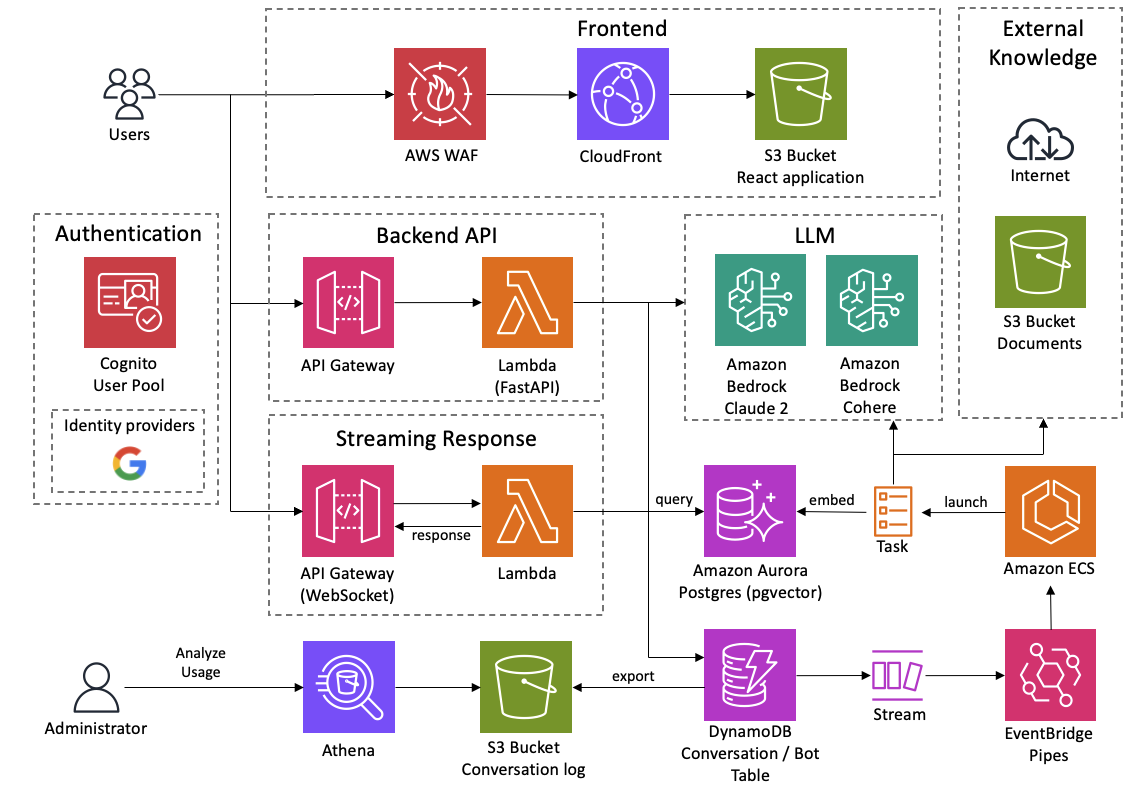
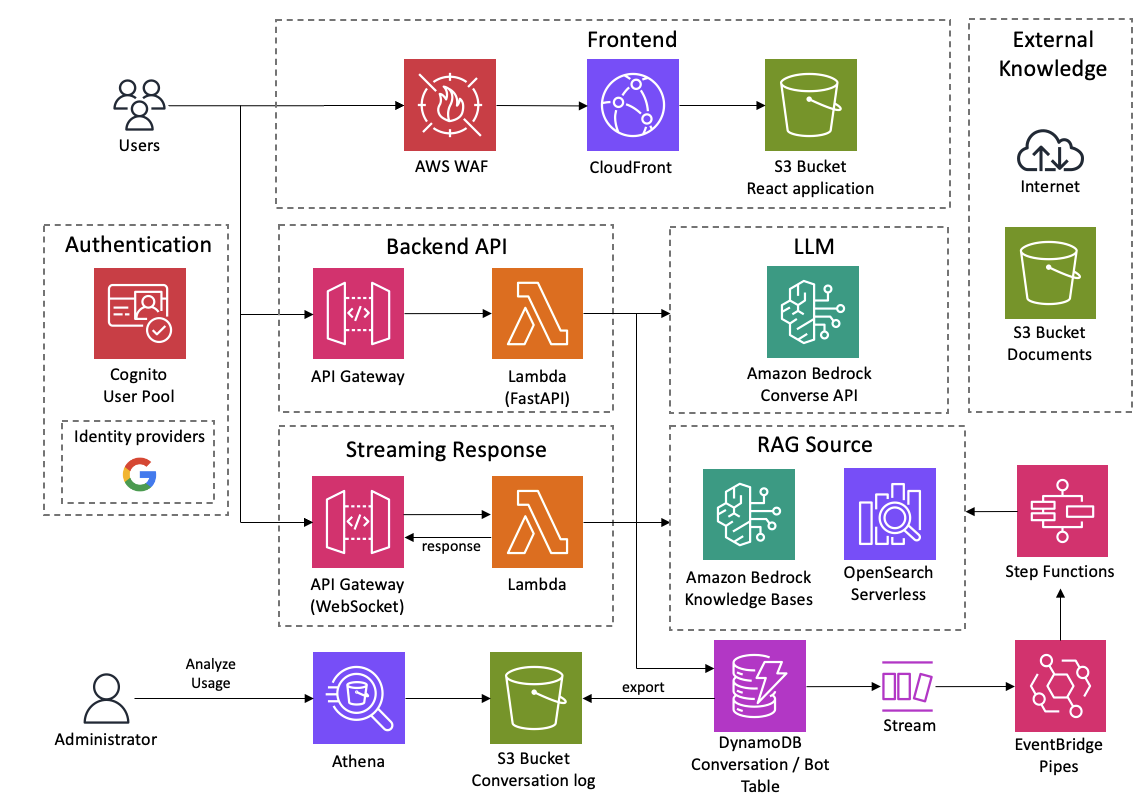
deploy: d1d43c014895be3e34d5a407c308c50576516e8b

diff --git a/migration/V1_TO_V2.md b/migration/V1_TO_V2.md
@@ -7,9 +7,6 @@
 - **For users who wish to continue using pgvector**: Upgrading to v2 is not recommended if you plan to continue using pgvector. Upgrading to v2 will remove all resources related to pgvector, and future support will no longer be available. Continue using v1 in this case.
 - Note that **upgrading to v2 will result in the deletion of all Aurora-related resources.** Future updates will focus exclusively on v2, with v1 being deprecated.
 
-> [!Important]
-> v2 will be released soon.
-
 ## Introduction
 
 ### What will happen
@@ -76,12 +73,20 @@ The steps differ depending on whether you are using v1.2 or earlier, or v1.3.
 
 **Note that some features are not available on Knowledge Bases, such as web crawling and YouTube transcript support (Planning to support web crawler ([issue](https://github.com/aws-samples/bedrock-claude-chat/issues/557))).** Also, keep in mind that using Knowledge Bases will incur charges for both Aurora and Knowledge Bases during the transition.
 
-4. **Upgrade to v2**: After the release of v2, fetch the tagged source and deploy as follows (this will be possible once released):
+4. **Remove published APIs**: All previously published APIs will need to be republished before deploying v2 due to VPC deletion. To do this, you will need to delete the existing APIs first. Using the [administrator's API Management feature](../ADMINISTRATOR.md) can simplify this process. Once the deletion of all `APIPublishmentStackXXXX` CloudFormation stacks is complete, the environment will be ready.
+
+5. **Deploy v2**: After the release of v2, fetch the tagged source and deploy as follows (this will be possible once released):
    ```bash
    git fetch --tags
    git checkout tags/v2.0.0
    cdk deploy
    ```
+
+> [!Warning]
+> After deploying v2, **ALL BOTS WITH THE PREFIX [Unsupported, Read-only] WILL BE HIDDEN.** Ensure you recreate necessary bots before upgrading to avoid any loss of access.
+
+> [!Tip]
+> During stack updates, you might encounter repeated messages like: Resource handler returned message: "The subnet 'subnet-xxx' has dependencies and cannot be deleted." In such cases, navigate to the Management Console > EC2 > Network Interfaces and search for BedrockChatStack. Delete the displayed interfaces associated with this name to help ensure a smoother deployment process.
 
 ### Steps for users of v1.3
 

diff --git a/AGENT.md b/AGENT.md
@@ -31,7 +31,7 @@ To enable the Agent functionality for your customized chatbot, follow these step
 ![](./imgs/agent_tools.png)
 
 > [!Important]
-> It's important to note that enabling any tool in the Agent section will automatically treat the ["Knowledge" functionality](RAG.md) as a tool as well. This means that the LLM will autonomously determine whether to use the "Knowledge" to answer user queries, considering it as one of the available tools at its disposal.
+> It's important to note that enabling any tool in the Agent section will automatically treat the ["Knowledge" functionality](https://aws.amazon.com/what-is/retrieval-augmented-generation/) as a tool as well. This means that the LLM will autonomously determine whether to use the "Knowledge" to answer user queries, considering it as one of the available tools at its disposal.
 
 4. By default "Internet Search" tool is provided. This tool allows the Agent to fetch information from the internet to answer user questions.
 
